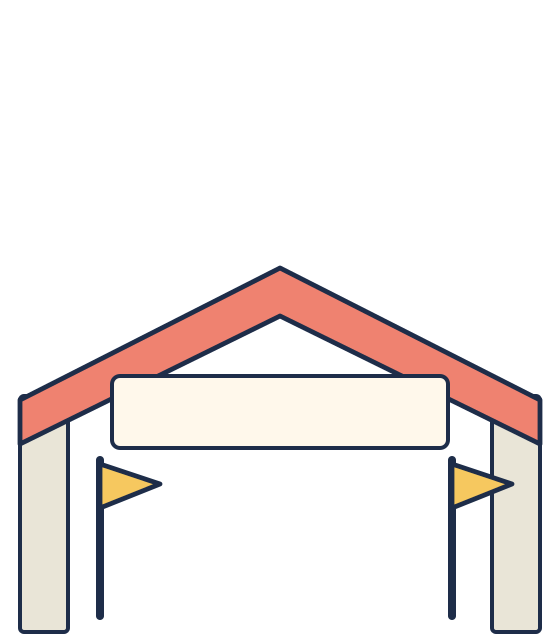
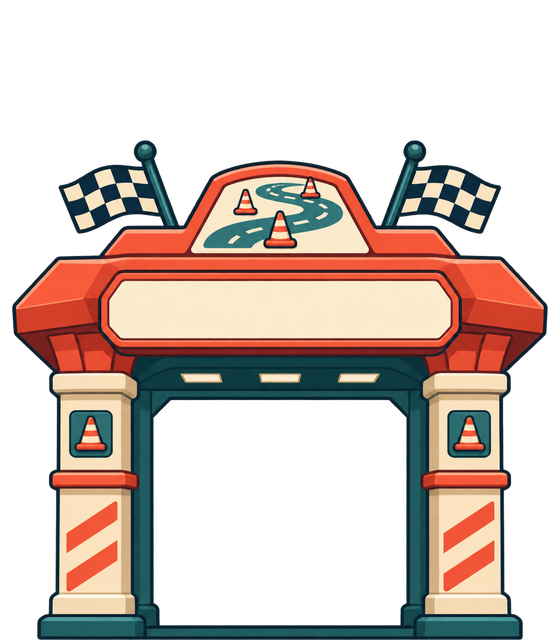
Render illustrated game-owned destinations

diff --git a/apps/web/src/world-sprites.ts b/apps/web/src/world-sprites.ts
@@ -36,7 +36,7 @@ export function carSpriteFile(body: string, color: string): string {
 export function siteSpriteFile(role: string): string {
   const site = sites.get(role);
   if (!site) throw new Error(`Missing civic sprite: ${role}`);
-  return site.sprite;
+  return `${site.sprite}?v=${site.hash.slice(0, 12)}`;
 }
 
 function loadInto(sprite: Sprite, fallback: Graphics, url: string): void {
@@ -118,6 +118,6 @@ export function createNpcFacade(
     site.labelRect.y + site.labelRect.height / 2,
   );
   group.addChild(fallback, sprite, text);
-  loadInto(sprite, fallback, assetUrl(site.sprite));
+  loadInto(sprite, fallback, assetUrl(siteSpriteFile(role)));
   return group;
 }

diff --git a/apps/web/src/world-sprites.test.ts b/apps/web/src/world-sprites.test.ts
@@ -12,5 +12,5 @@ test("all body, colour and civic destination combinations are available", () => 
       assert.match(carSpriteFile(body, color), /\.png$/);
   }
   for (const role of ServiceRole.options)
-    assert.match(siteSpriteFile(role), /\.png$/);
+    assert.match(siteSpriteFile(role), /\.png\?v=[0-9a-f]{12}$/);
 });

diff --git a/docs/DECISIONS.md b/docs/DECISIONS.md
@@ -1024,3 +1024,9 @@ The [invite-beta release checklist](RELEASE_CHECKLIST.md) is the current cross-p
 - Render the grandstand entrance in the existing transparent civic-sprite pipeline and add track grounds behind the otherwise empty Harbor frontage. The [six-destination sheet](images/near-estate-civic-destinations-v2.png), [street view](images/near-estate-horse-course-street-phone-v1.png) and [phone race screen](images/near-estate-horse-course-phone-v1.png) show the result. The free four-horse canvas race has replay and reduced-motion completion. Its outcome is a deterministic local animation, not a source for a paid wager.
 - A separate 100-coin browser demo ledger models 1–5 coin stakes, 3.8× total return, a 20-coin daily limit, escrow, reserved house profit, settlement and refund. It has no connection to player parking balances or contract calls. No real bet appears in the testnet client. Fair future randomness, reserve issuance, contract settlement, eligibility and legal review remain release gates under [the racing plan](HORSE_RACING_PLAN.md).
 - The [read-only runtime rehearsal](../deployments/runtime-upgrade-sandbox-27e17dd14a6cb109.json), [plan](../deployments/runtime-upgrade-plan-27e17dd14a6cb109.json) and [recovery drill](../deployments/runtime-upgrade-drill-27e17dd14a6cb109.json) passed. A separate imported-state sandbox call proved the eighth site changes only the root count and two site registry keys. The guarded [code release](../deployments/runtime-upgrade-live-27e17dd14a6cb109.json) preserved the 381-entry state hash; [site transaction](../deployments/testnet-horse-course-site.json) and [finalized-block postcheck](../deployments/runtime-upgrade-postcheck-27e17dd14a6cb109.json) verified eight sites, unchanged 100 plots and 180 curbs, and an unpaused city. The refreshed [map audit](../deployments/testnet-variable-map-journey.json) includes the new site. These checks do not verify a named-wallet or physical-phone race journey.
+
+## 2026-11-13 — Replace flat civic facades with rendered art
+
+- Use six transparent hand-inked image renders for the parking tower, repair garage, cinema, burger stop, practice course and horse course. The established player-building style and 140 × 160 logical facade envelope guided each prompt. The game still draws names in separate text layers, so a generated pixel never decides the site identity. [Prompt set and pipeline](CIVIC_RENDERED_ART_SPEC.md).
+- Keep raw renders under `art/source/civic-rendered`, normalize them deterministically into `apps/web/public/world`, and record source and output hashes in the sprite catalog. `assets:check` now rejects stale outputs after a source changes. Sprite URLs include the output hash to avoid stale browser images. The old vector sprites and review sheet remain under `art/archive/civic-vector-v1`.
+- The [asset sheet](images/near-estate-civic-destinations-v2.png) and [phone street review](images/near-estate-civic-street-review-v1.png) show the six final silhouettes and label placement. This changes guest and live client art only; the testnet contract and city records stay the same.

diff --git a/docs/CIVIC_RENDERED_ART_SPEC.md b/docs/CIVIC_RENDERED_ART_SPEC.md
@@ -1,0 +1,18 @@
+# Rendered game-owned destinations
+
+Six game-owned facades are generated raster illustrations. Their transparent source PNGs live in `art/source/civic-rendered`; `scripts/generate-world-sprites.mjs` trims and fits them into 560 × 640 transparent sprites in `apps/web/public/world`. The visible base sits at logical y=160. The game draws each destination name over the blank sign panel using the `labelRect` in `apps/web/src/world-sprites.json`. The source SHA-256 and normalized sprite SHA-256 are recorded there and checked by `npm run assets:check`. Civic sprite URLs include a short hash query so browsers fetch the new art after deployment.
+
+## Prompt set
+
+Use case: `stylized-concept`. Asset type: transparent 2D facade sprite for the side-scrolling near.estate parking city. Draw a complete, isolated building in strict straight-on front elevation with a flat ground-level base, no visible side wall or perspective. Use polished hand-inked mobile city game art: crisp dark navy contours, broad bright color fields, warm cream details, restrained texture and highlights. Keep a distinct silhouette readable at 140 logical pixels. Include a completely blank cream sign panel for the game-rendered name. Use a genuine transparent background and clean alpha edges. No sky, road, cars, people, embedded lettering, logos, numbers, watermark, UI or cast shadow outside the silhouette.
+
+Apply that common prompt separately to these six subjects:
+
+1. **ParkingTower:** tall concrete and teal tower; four open, dark parking decks with rails and bay guides; turquoise glass side shafts; blank upper sign panel. Fill most of the height.
+2. **RepairGarage:** low, wide blue-metal sawtooth workshop; broad central roll-up service door, two tool and tire windows, blank sign above the door.
+3. **Cinema:** purple and deep-blue art-deco theater; stepped roof, circular film-reel medallion, glowing entrance and bulb-lined marquee; blank wide marquee panel.
+4. **BurgerStop:** one-story coral diner with golden bun-shaped roof and green lettuce band, turquoise dining windows, teal central doors; blank cream sign band. This building is Near & Far Burgers.
+5. **PracticeCourse:** wide, structured course gatehouse with cream pylons, red-orange canopy, dark open passage, checkered pennants and cone details; blank canopy sign.
+6. **HorseCourse:** teal peaked equestrian grandstand gate with gold horseshoe relief, cream brick piers, arched entrance, visible bleachers, coral/yellow race flags and planted details; blank sign spanning the entrance.
+
+The art was made with the built-in imagegen tool, not the paid local image API. The six prior flat civic sprites and their review sheet are retained in `art/archive/civic-vector-v1`. The [current review sheet](images/near-estate-civic-destinations-v2.png) shows all six normalized sprites; the [street review](images/near-estate-civic-street-review-v1.png) shows their names and scale in the running guest game. No contract or gameplay rules changed in this art pass.

diff --git a/docs/ART_SPEC.md b/docs/ART_SPEC.md
@@ -18,6 +18,8 @@ The [phone street capture](images/near-estate-curated-street-phone-v5.png) at 66
 
 `scripts/generate-world-sprites.mjs` creates the six car bodies in Red, Blue, Yellow and Green as transparent 256×128 PNGs (64×32 logical pixels), plus six transparent 560×640 game-owned destination sprites. Each car uses a center anchor at (32,16) so driving and parked examples share the same alignment. The [car and civic asset sheet](images/near-estate-world-sprites-v1.png) shows the original five roles; the [current civic sheet](images/near-estate-civic-destinations-v2.png) adds Harbor Horse Course. `npm run assets:civic:review` rebuilds it. The asset check verifies decoded bounds, hashes and complete body/colour/role set. Civic labels render separately from the art. The [street capture](images/near-estate-horse-course-street-phone-v1.png) shows the entrance and track grounds; the [phone race screen](images/near-estate-horse-course-phone-v1.png) shows the destination in the local guest game.
 
+The six civic destination sprites now use [rendered transparent image sources](CIVIC_RENDERED_ART_SPEC.md) in the same illustrated style as player buildings. Their old flat sprites are archived. The normalization step keeps each silhouette inside the 140 × 160 logical envelope and verifies the source and sprite hashes. The [six-site street review](images/near-estate-civic-street-review-v1.png) checks sign overlays and scale in the guest renderer.
+
 Phone gameplay uses landscape. Menus and studio allow portrait. See [V1_SPEC](V1_SPEC.md#screen-layout-and-orientation) for viewport and safe-area acceptance.
 
 The first [illustrated building image draft](BUILDING_IMAGE_SPEC.md) adds five transparent level-2 guest facades. Their raw sources and normalized 560 × 640 sprites are separate from the 40 procedural presets and from approved live artwork. The [review sheet](images/near-estate-illustrated-buildings-v1.png) shows them at equal game scale; the [street captures](VISUALS.md) show the cafe in context. This visual trial does not enable paid owner generation.
